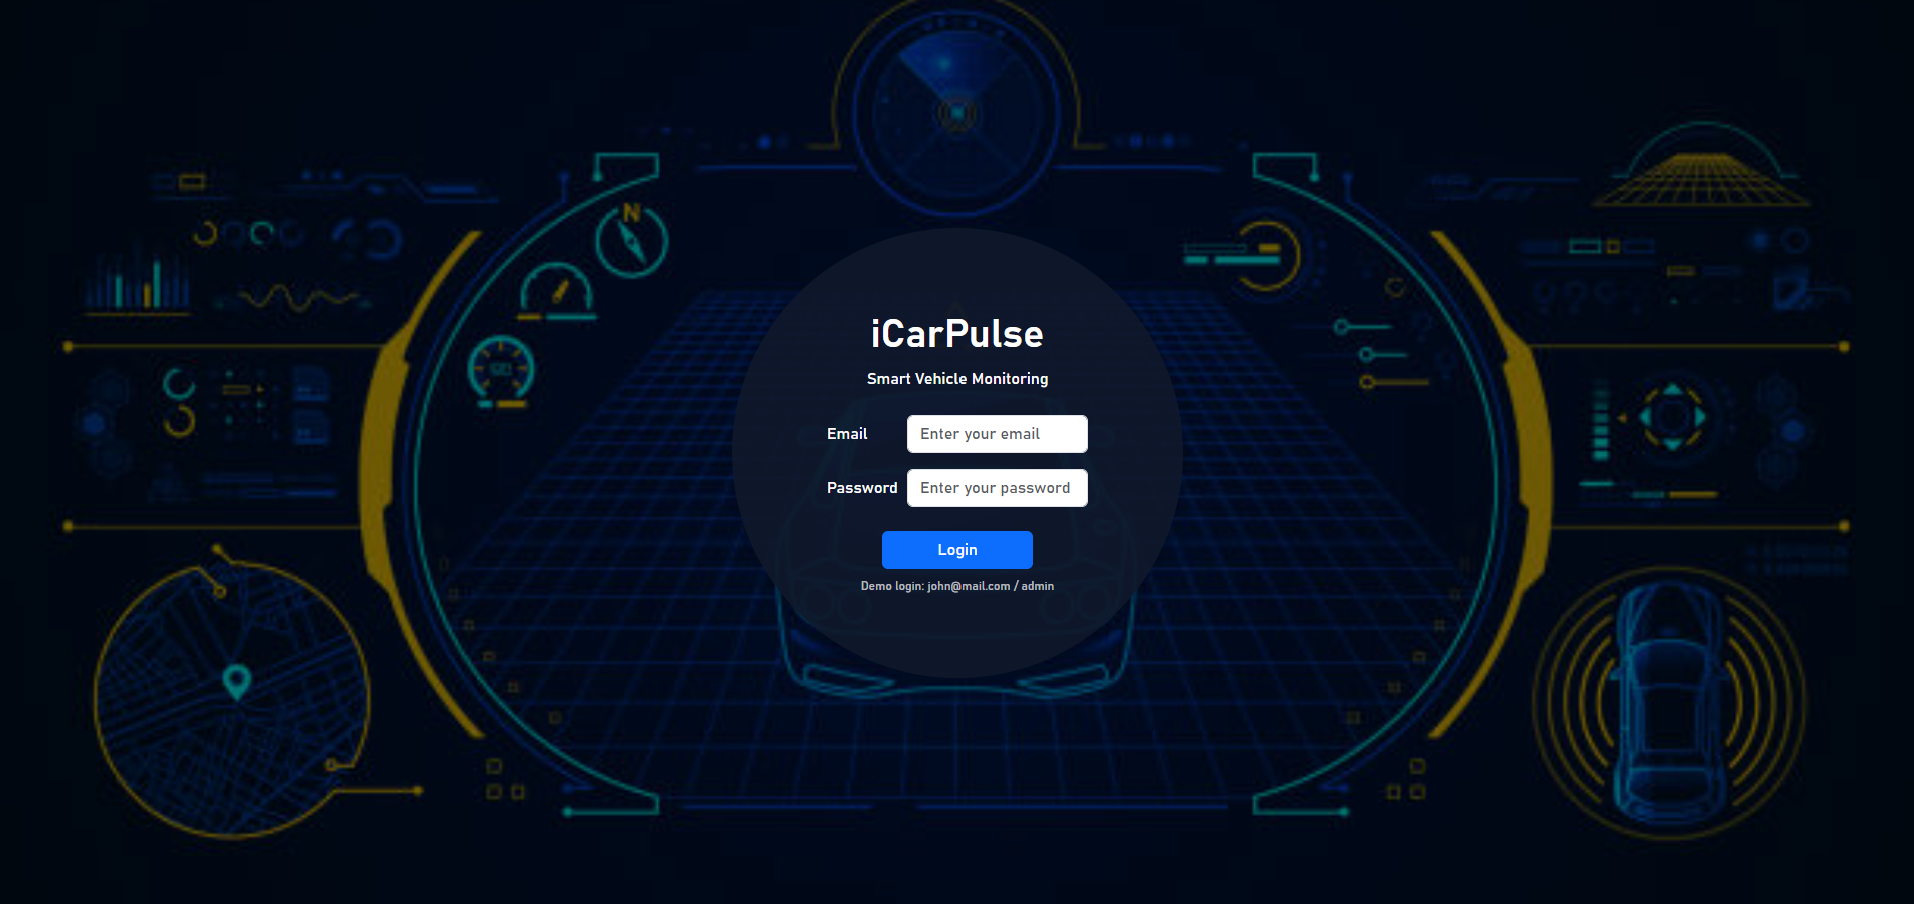
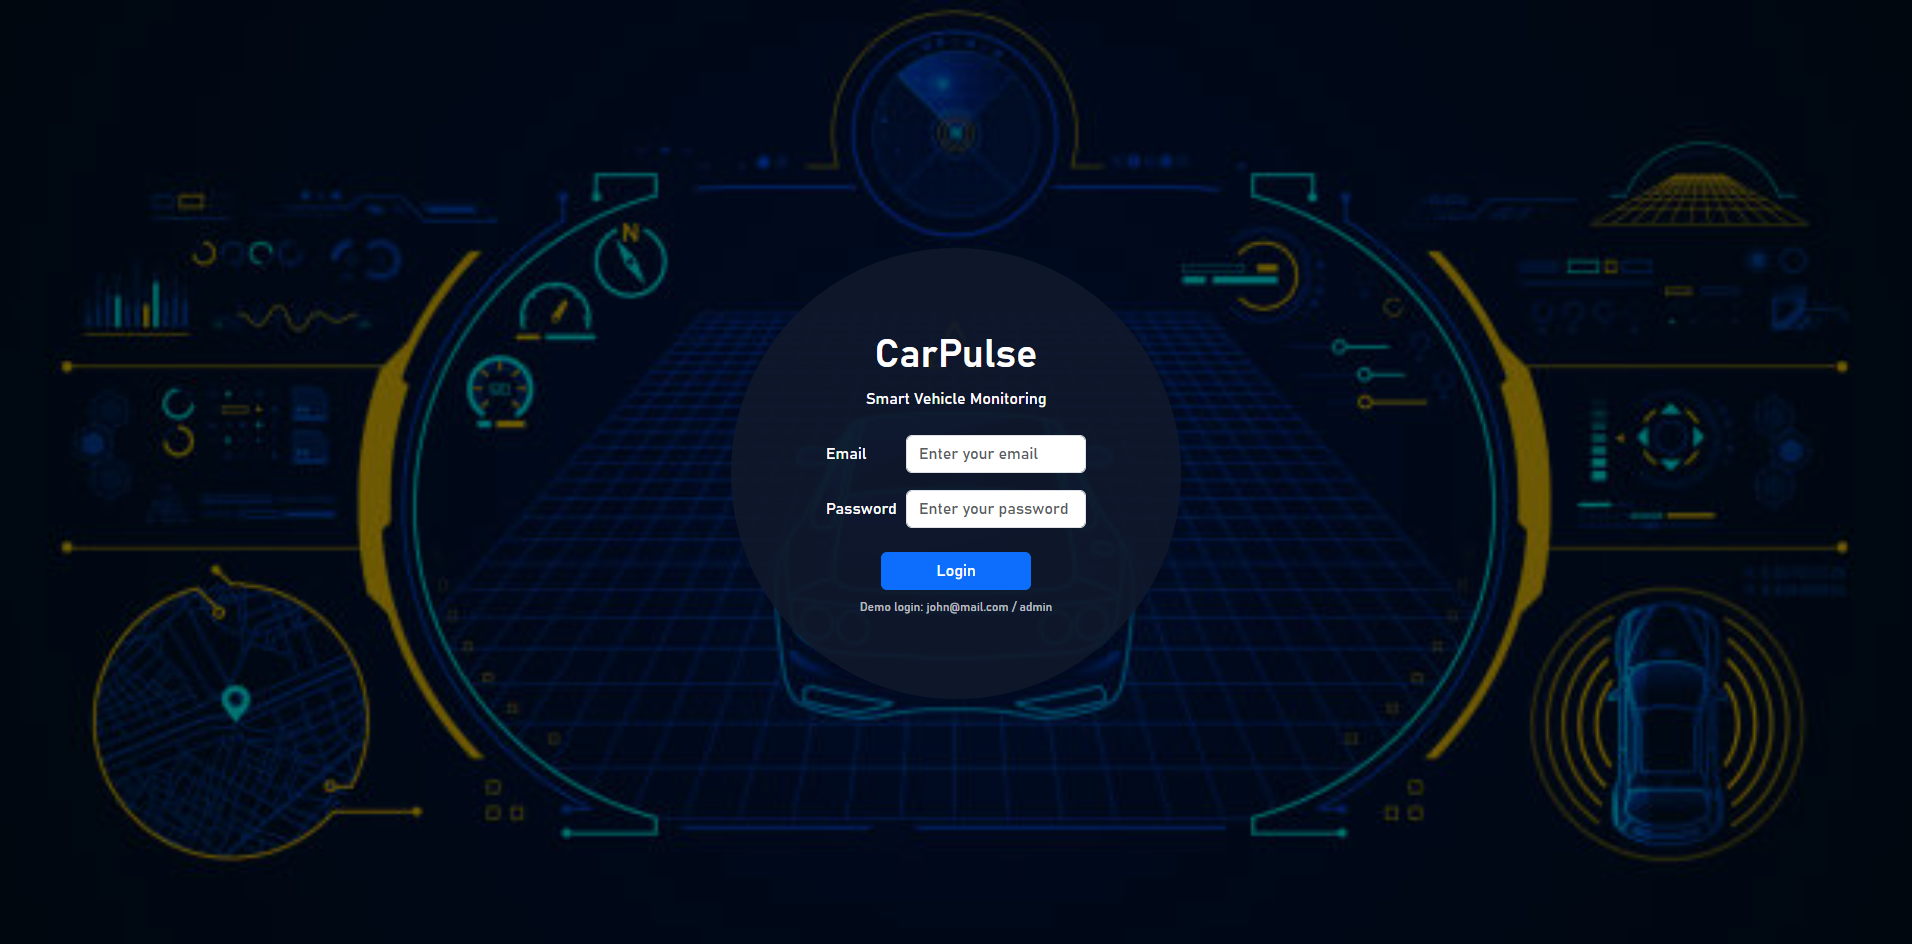
update image

diff --git a/README.md b/README.md
@@ -4,13 +4,13 @@ A smart vehicle monitoring dashboard built with React and React Bootstrap.
 
 CarPulse allows users to quickly view their vehicle device status, alerts, and monitoring settings from one dashboard.
 
-![Login Page](./public/login.png)
+![Login](./public/login.png)
 Image 1: Login page.
 
-![Dashboard Page](./public/dashboard.png)
+![Dashboard](./public/dashboard.png)
 Image 2: Dashboard page.
 
-![Error Page](./public/errorpage.png)
+![Error](./public/errorpage.png)
 Image 3: Custom 404 Error Page.
 
 ## Features
